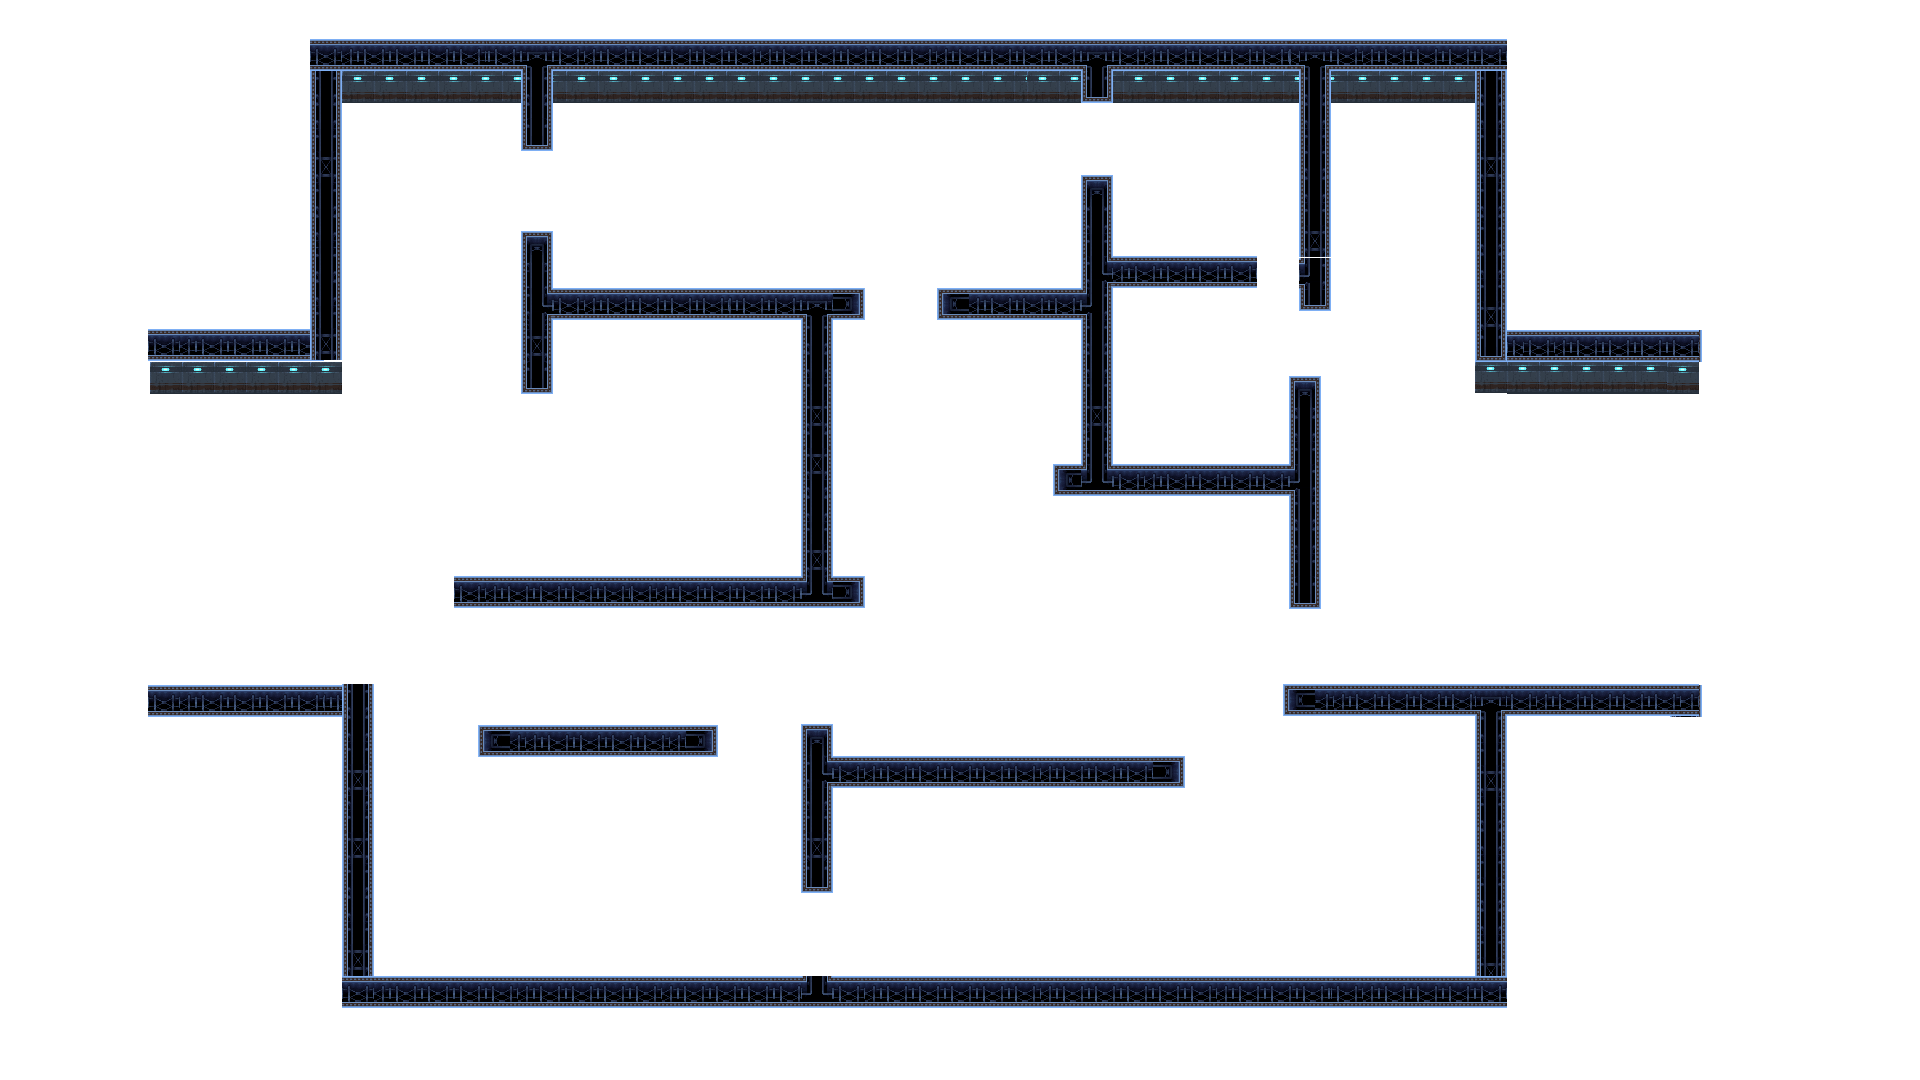
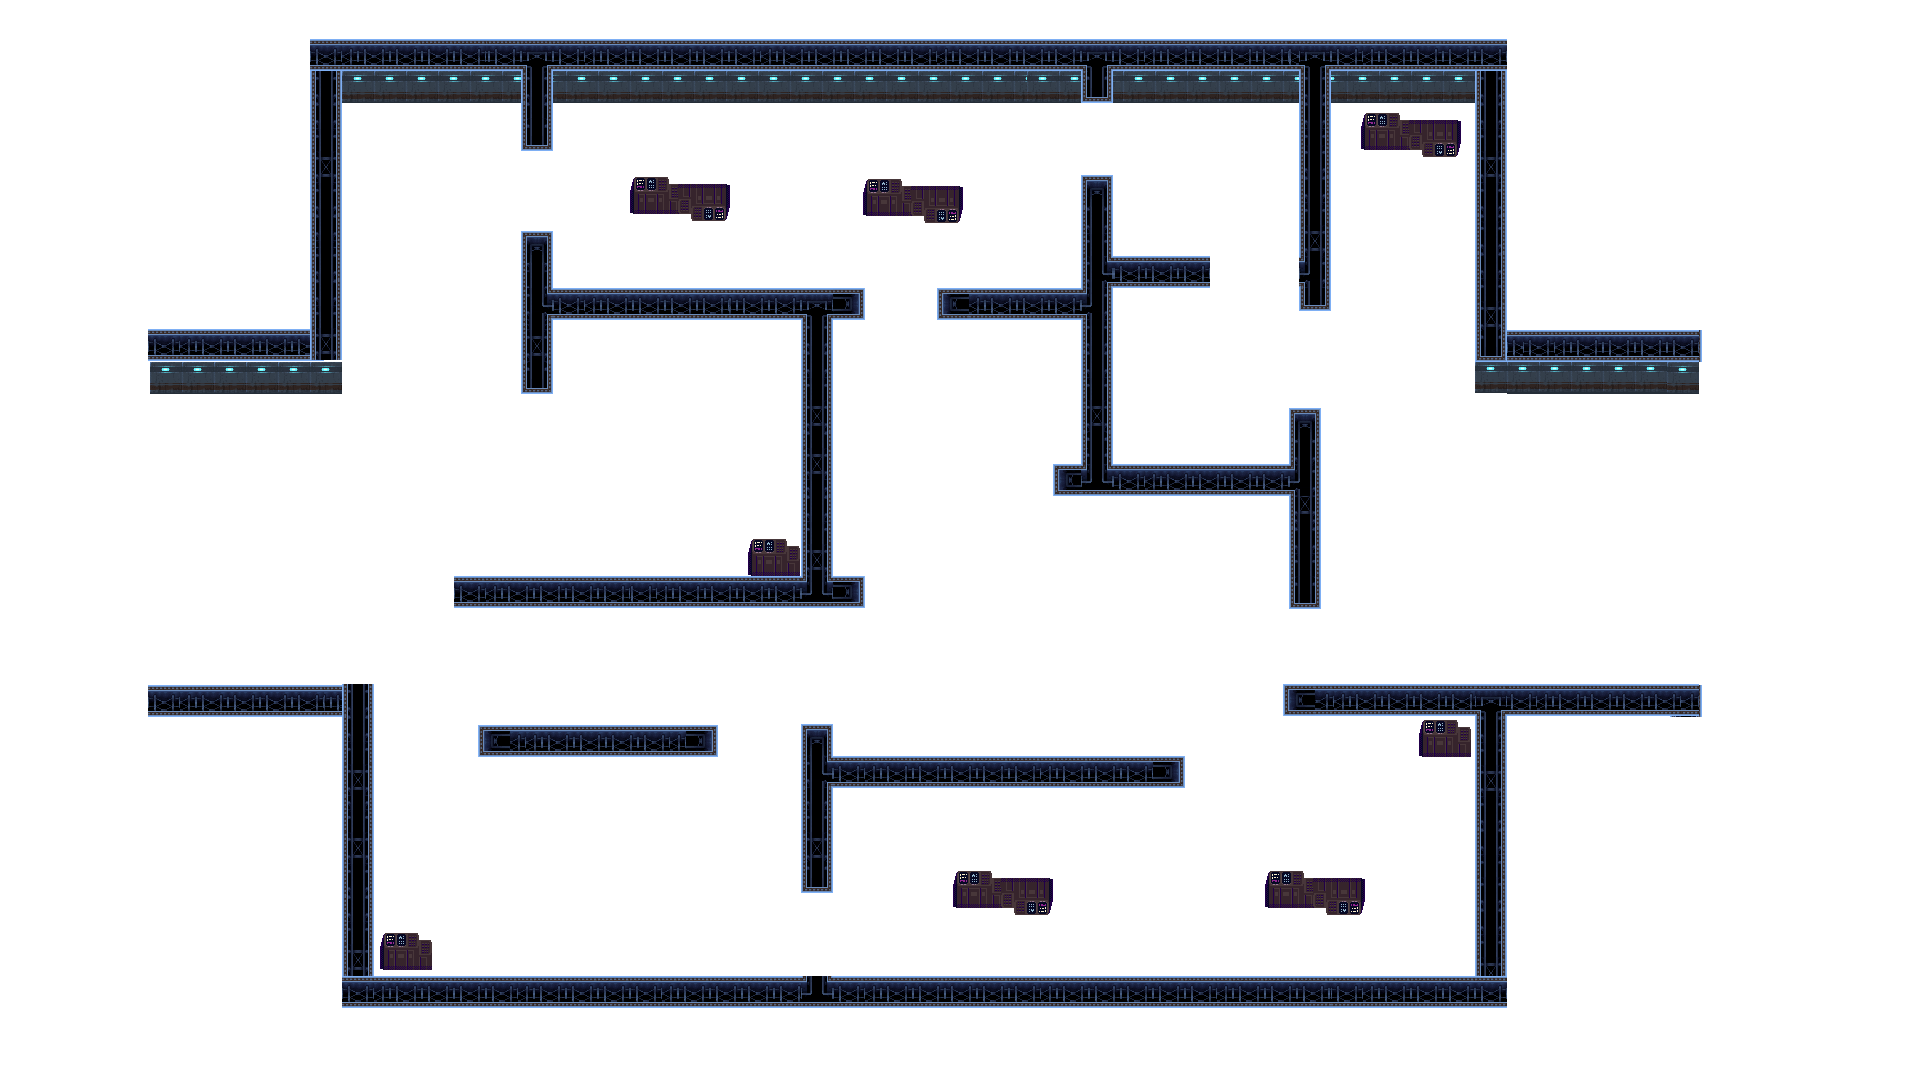
Zaczątki ruchu potwora, jak na razie się poprostu porusza do gracza ignorując ściany + detale na mape (bezużyteczne)

diff --git a/move_monster.h b/move_monster.h
@@ -1,0 +1,50 @@
+#ifndef MOVE_MONSTER_H
+#define MOVE_MONSTER_H
+
+#include <SFML/Window.hpp>
+#include <SFML/Graphics.hpp>
+#include "postac.h"
+#include "bohater.h"
+#include "funkcje.h"
+#include "potwor.h"
+
+#include <memory>
+#include <vector>
+#include <cmath>
+
+using namespace std;
+using namespace sf;
+
+void move_monster(unique_ptr<potwor> &monster, unique_ptr<bohater> &hero, Time &elapsed,
+               const float &Scale_ratioX, const float &Scale_ratioY,
+               const Image &image, float &run_ratio){
+
+    Vector2f destination=hero->getPosition();
+    Vector2f m_position = monster->getPosition();
+
+    bool a = destination.x<m_position.x;
+    bool d = destination.x>m_position.x;
+    bool w = destination.y<m_position.y;
+    bool s = destination.y>m_position.y;
+
+    if (a){
+        monster->animate(elapsed,direction::left,Scale_ratioX,Scale_ratioY);
+        monster->turn_left();
+    }
+    else if (d){
+        monster->animate(elapsed,direction::right,Scale_ratioX,Scale_ratioY);
+        monster->turn_right();
+    }
+    if (w){
+        monster->animate(elapsed,direction::up,Scale_ratioX,Scale_ratioY);
+    }
+    else if (s){
+        monster->animate(elapsed,direction::down,Scale_ratioX,Scale_ratioY);
+    }
+
+}
+
+
+
+
+#endif // MOVE_MONSTER_H

diff --git a/funkcje.h b/funkcje.h
@@ -128,17 +128,15 @@ void move_hero(unique_ptr<bohater> &hero, Time &elapsed,
         hero->set_is_running(false);
     }
     if (hero->get_is_running() && czas_do_nowego_promienia <= Time::Zero){
-        if (promienie_sluchu.empty()){
-            unique_ptr<promien_slysz> r_sluchu = make_unique<promien_slysz>();
-            r_sluchu->setRadius(1.f);
-            reset_origin_point(r_sluchu);
-            r_sluchu->setPosition(hero->getPosition().x,hero->getPosition().y);
-            r_sluchu->setFillColor(Color(0,0,0,0));
-            r_sluchu->setOutlineThickness(10.f);
-            r_sluchu->setOutlineColor(Color(250,0,0));
-            promienie_sluchu.emplace_back(std::move(r_sluchu));
-            czas_do_nowego_promienia = seconds(1.f);
-        }
+        unique_ptr<promien_slysz> r_sluchu = make_unique<promien_slysz>();
+        r_sluchu->setRadius(1.f);
+        reset_origin_point(r_sluchu);
+        r_sluchu->setPosition(hero->getPosition().x,hero->getPosition().y);
+        r_sluchu->setFillColor(Color(0,0,0,0));
+        r_sluchu->setOutlineThickness(10.f);
+        r_sluchu->setOutlineColor(Color(250,0,0));
+        promienie_sluchu.emplace_back(std::move(r_sluchu));
+        czas_do_nowego_promienia = seconds(0.7f);
     }
 }
 template<typename T>

diff --git a/main.cpp b/main.cpp
@@ -5,6 +5,7 @@
 #include <iostream>
 #include <algorithm>
 
+#include "move_monster.h"
 #include "funkcje.h"
 #include "postac.h"
 #include "bohater.h"
@@ -12,6 +13,7 @@
 #include "potwor.h"
 //#include "dzwiek.h"
 #include "Struct_promien_slyszenia.h"
+
 
 
 using namespace std;
@@ -79,7 +81,10 @@ int main()
     ///////////Potwor//////////////////
     unique_ptr<potwor>monster = make_unique<potwor>();
     monster->setPosition(windowSize.x/2.f,windowSize.y/2.f);
-    monster->setScale(1.f,1.f);
+    monster->set_v_ratio(1.f);
+    monster->set_x_speed(100.f);
+    monster->set_y_speed(100.f);
+    monster->setScale(0.7f,0.7f);
     monster->reset_origin_point();
     set_proper_scale(monster,Scale_ratioX,Scale_ratioY);
     postacie.push_back(monster.get());
@@ -143,11 +148,11 @@ int main()
             hero->change_frame(frame_count_h);
         }
 
-
+        move_monster(monster,hero,elapsed,Scale_ratioX,Scale_ratioY,image_sciany,run_ratio);
         int kl_m=8;
         if ((frame_count2%kl_m)+1==kl_m){
             frame_count_m++;
-            monster->change_frame(frame_count_m, Scale_ratioX, Scale_ratioY);
+            //monster->change_frame(frame_count_m, Scale_ratioX, Scale_ratioY);
         }
 
         ///////////////////////////////

diff --git a/potwor.h b/potwor.h
@@ -20,6 +20,8 @@ public:
         run4=TextureManager::getInstance().getTexture("assets\\potwor\\scifi_alien_run_4.png");
         run5=TextureManager::getInstance().getTexture("assets\\potwor\\scifi_alien_run_5.png");
         is_moving=false;
+        setTexture(idle1);
+        reset_origin_point();
     };
     // W klasie potwor
     void set_proper_scale(float x_ratio, float y_ratio) {
@@ -45,13 +47,14 @@ public:
             case 5: setTexture(idle2); frame_count = 0; break;
             }
         }
-        reset_origin_point();
-        setScale(1.f, 1.f);
+        setScale(1,1);
         this->set_proper_scale(scaleX, scaleY);
+        reset_origin_point();
     }
 
-
 private:
+    bool is_left=false, is_right=false;
+
     Texture idle1, idle2;
     Texture run1, run2,run3,run4,run5;
 };

diff --git a/postac.h b/postac.h
@@ -9,6 +9,7 @@ using namespace std;
 using namespace sf;
 
 enum direction {none, left, right, up, down};
+enum direction_adv {left_up, right_up, left_down, right_down};
 
 class Postac : public Sprite{
 public:
